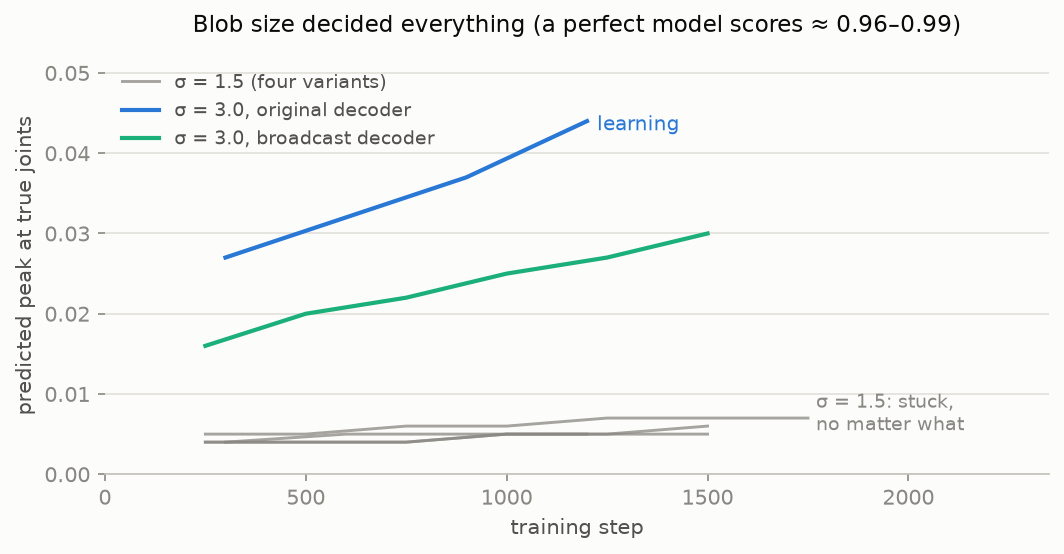
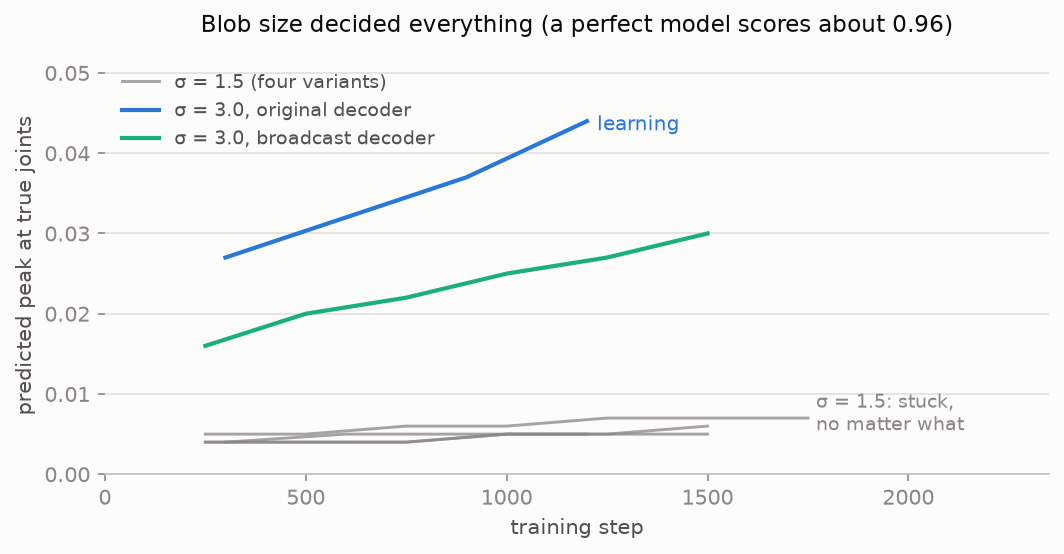
stage 4: training loop and pck evaluation, smoke-tested locally

Changed region(s): [[0.1861, 0.0307, 0.8994, 0.0614]]

diff --git a/piw/eval.py b/piw/eval.py
@@ -1,0 +1,97 @@
+"""Evaluation: decode joints from heatmaps and score PCK@0.2.
+
+PCK@0.2: a predicted joint counts as correct if it lands within 0.2 of the
+ground-truth bounding-box diagonal of the true joint. The box is computed from
+the confident GT joints, matching the paper's convention. Only joints the
+teacher was confident about (conf >= 0.2) are scored.
+
+COCO-18 has no separate foot keypoints, so joints are grouped head / arms
+(torso and arms) / legs, with ankles as the lowest joints in the leg group.
+"""
+
+import argparse
+import os
+
+import numpy as np
+import torch
+from torch.utils.data import DataLoader
+
+from piw.dataset import WiPoseDataset
+from piw.network import PersonInWiFi
+from piw.skeleton import JOINT_NAMES, NUM_JOINTS
+from piw.targets import CONF_THRESH
+
+JOINT_GROUPS = {
+    "head": [0, 14, 15, 16, 17],        # nose, eyes, ears
+    "arms": [1, 2, 3, 4, 5, 6, 7],      # neck, shoulders, elbows, wrists
+    "legs": [8, 9, 10, 11, 12, 13],     # hips, knees, ankles
+}
+
+
[email redacted]_grad()
+def decode_keypoints(jhm):
+    """(B, J+1, H, W) -> (B, J, 2) grid coordinates (x=col, y=row) via argmax."""
+    hm = jhm[:, :NUM_JOINTS]                       # drop background channel
+    B, J, H, W = hm.shape
+    idx = hm.reshape(B, J, -1).argmax(-1)
+    xs = (idx % W).float()
+    ys = (idx // W).float()
+    return torch.stack([xs, ys], dim=-1)
+
+
[email redacted]_grad()
+def pck_correct(pred_xy, gt, thresh=0.2):
+    """Per-joint correct/valid boolean masks, shape (B, J)."""
+    gx, gy, conf = gt[..., 0], gt[..., 1], gt[..., 2]
+    valid = conf >= CONF_THRESH
+    dist = torch.hypot(pred_xy[..., 0] - gx, pred_xy[..., 1] - gy)
+    correct = torch.zeros_like(valid)
+    for b in range(gt.shape[0]):
+        v = valid[b]
+        if int(v.sum()) < 2:
+            continue
+        xs, ys = gx[b][v], gy[b][v]
+        diag = torch.hypot(xs.max() - xs.min(), ys.max() - ys.min()).clamp_min(1e-6)
+        correct[b] = (dist[b] <= thresh * diag) & v
+    return correct, valid
+
+
[email redacted]_grad()
+def evaluate(model, root, split="Test", device="cpu", batch=32, workers=0,
+             max_batches=None):
+    dl = DataLoader(WiPoseDataset(root, split), batch_size=batch,
+                    num_workers=workers)
+    model.eval().to(device)
+    hit = np.zeros(NUM_JOINTS)
+    tot = np.zeros(NUM_JOINTS)
+    for i, bd in enumerate(dl):
+        jhm_p, _ = model(bd["csi"].to(device))
+        pred = decode_keypoints(jhm_p).cpu()
+        correct, valid = pck_correct(pred, bd["keypoints_grid"])
+        hit += correct.sum(0).numpy()
+        tot += valid.sum(0).numpy()
+        if max_batches and i + 1 >= max_batches:
+            break
+    per_joint = hit / np.clip(tot, 1, None)
+    overall = hit.sum() / max(tot.sum(), 1)
+    groups = {g: hit[ix].sum() / max(tot[ix].sum(), 1)
+              for g, ix in JOINT_GROUPS.items()}
+    return {"overall": float(overall), "groups": groups,
+            "per_joint": dict(zip(JOINT_NAMES, per_joint.tolist()))}
+
+
+if __name__ == "__main__":
+    ap = argparse.ArgumentParser()
+    ap.add_argument("checkpoint")
+    ap.add_argument("--root",
+                    default=os.path.join("data", "Wi-Pose_sample", "Wi-Pose"))
+    ap.add_argument("--split", default="Test")
+    ap.add_argument("--device",
+                    default="cuda" if torch.cuda.is_available() else "cpu")
+    a = ap.parse_args()
+    model = PersonInWiFi()
+    model.load_state_dict(torch.load(a.checkpoint, map_location=a.device))
+    res = evaluate(model, a.root, a.split, a.device)
+    print(f"PCK@0.2 overall: {res['overall']:.3f}")
+    for g, v in res["groups"].items():
+        print(f"  {g:>5}: {v:.3f}")

diff --git a/piw/train.py b/piw/train.py
@@ -1,0 +1,86 @@
+"""Training loop for the Person-in-WiFi pose network.
+
+Adam (betas 0.9/0.999), lr 1e-3, batch 32, 20 epochs, lr halved at epochs
+5/10/15 (the sibling paper WiSPPN's schedule). Loss is the masked
+Matthew-Weighted L2 over JHM and PAF. CPU is fine for a smoke test on the
+sample; the full 20-epoch run over 132k frames wants a GPU (see docs/PROGRESS.md).
+"""
+
+import argparse
+import os
+import time
+
+import torch
+from torch.utils.data import DataLoader
+
+from piw.dataset import WiPoseDataset
+from piw.losses import pose_loss
+from piw.network import PersonInWiFi
+
+
+def train(root, epochs=20, batch=32, lr=1e-3, device="cpu", workers=0,
+          max_steps=None, ckpt="checkpoints", log_every=20):
+    ds = WiPoseDataset(root, "Train")
+    dl = DataLoader(ds, batch_size=batch, shuffle=True, num_workers=workers,
+                    drop_last=True)
+    model = PersonInWiFi().to(device)
+    opt = torch.optim.Adam(model.parameters(), lr=lr, betas=(0.9, 0.999))
+    sched = torch.optim.lr_scheduler.MultiStepLR(opt, milestones=[5, 10, 15],
+                                                 gamma=0.5)
+    os.makedirs(ckpt, exist_ok=True)
+    print(f"train frames: {len(ds)}  batches/epoch: {len(dl)}  device: {device}",
+          flush=True)
+
+    model.train()
+    history = []
+    step = 0
+    stop = False
+    for epoch in range(1, epochs + 1):
+        running, n, t0 = 0.0, 0, time.time()
+        for bd in dl:
+            csi = bd["csi"].to(device)
+            jhm, paf = bd["jhm"].to(device), bd["paf"].to(device)
+            jm, pm = bd["jhm_mask"].to(device), bd["paf_mask"].to(device)
+
+            jhm_p, paf_p = model(csi)
+            loss, lj, lp = pose_loss(jhm_p, jhm, jm, paf_p, paf, pm)
+            opt.zero_grad()
+            loss.backward()
+            opt.step()
+
+            running += loss.item()
+            n += 1
+            step += 1
+            if step % log_every == 0:
+                print(f"  epoch {epoch} step {step}  loss {loss.item():.4f}  "
+                      f"(jhm {lj.item():.4f}  paf {lp.item():.4f})", flush=True)
+            if max_steps and step >= max_steps:
+                stop = True
+                break
+
+        sched.step()
+        avg = running / max(n, 1)
+        history.append(avg)
+        print(f"[epoch {epoch}] avg loss {avg:.4f}  ({time.time() - t0:.1f}s)",
+              flush=True)
+        torch.save(model.state_dict(), os.path.join(ckpt, f"epoch{epoch:02d}.pt"))
+        if stop:
+            break
+    return model, history
+
+
+if __name__ == "__main__":
+    ap = argparse.ArgumentParser()
+    ap.add_argument("--root",
+                    default=os.path.join("data", "Wi-Pose_sample", "Wi-Pose"))
+    ap.add_argument("--epochs", type=int, default=20)
+    ap.add_argument("--batch", type=int, default=32)
+    ap.add_argument("--lr", type=float, default=1e-3)
+    ap.add_argument("--device",
+                    default="cuda" if torch.cuda.is_available() else "cpu")
+    ap.add_argument("--workers", type=int, default=0)
+    ap.add_argument("--max-steps", type=int, default=None)
+    ap.add_argument("--ckpt", default="checkpoints")
+    a = ap.parse_args()
+    train(a.root, a.epochs, a.batch, a.lr, a.device, a.workers, a.max_steps,
+          a.ckpt)

diff --git a/tests/test_train_eval.py b/tests/test_train_eval.py
@@ -1,0 +1,44 @@
+import torch
+
+from piw.eval import decode_keypoints, pck_correct
+from piw.losses import masked_mw_loss, mw_loss
+from piw.skeleton import NUM_JOINTS
+from piw.targets import OUT_H, OUT_W
+
+
+def test_masked_loss_matches_mw_when_all_kept():
+    torch.manual_seed(0)
+    pred = torch.randn(2, 3, 4, 5)
+    target = torch.randn(2, 3, 4, 5)
+    mask = torch.ones(2, 3)
+    assert torch.isclose(masked_mw_loss(pred, target, mask), mw_loss(pred, target))
+
+
+def test_masked_loss_ignores_masked_channels():
+    torch.manual_seed(1)
+    pred = torch.randn(2, 3, 4, 5)
+    target = torch.randn(2, 3, 4, 5)
+    mask = torch.ones(2, 3)
+    mask[:, 1] = 0.0                              # drop channel 1
+    base = masked_mw_loss(pred, target, mask)
+    pred2 = pred.clone()
+    pred2[:, 1] += 100.0                          # garbage in the masked channel
+    assert torch.isclose(masked_mw_loss(pred2, target, mask), base)
+
+
+def test_decode_recovers_peak():
+    jhm = torch.zeros(1, NUM_JOINTS + 1, OUT_H, OUT_W)
+    jhm[0, 0, 20, 40] = 1.0                       # joint 0 peak at row 20, col 40
+    xy = decode_keypoints(jhm)
+    assert xy[0, 0, 0].item() == 40 and xy[0, 0, 1].item() == 20
+
+
+def test_pck_perfect_prediction():
+    torch.manual_seed(2)
+    gx = torch.rand(1, NUM_JOINTS) * OUT_W
+    gy = torch.rand(1, NUM_JOINTS) * OUT_H
+    conf = torch.ones(1, NUM_JOINTS)
+    gt = torch.stack([gx, gy, conf], dim=-1)
+    pred = gt[..., :2].clone()                    # exact predictions
+    correct, valid = pck_correct(pred, gt)
+    assert valid.all() and correct.all()

diff --git a/stage4_smoke.py b/stage4_smoke.py
@@ -1,0 +1,33 @@
+"""Stage 4 local smoke test: prove the training + evaluation pipeline runs end
+to end on the sample and the loss goes down. This is a plumbing check, not a
+real training run (the sample is tiny and the step budget is small), so the
+PCK number here is near chance and only confirms evaluation executes.
+
+Run: python stage4_smoke.py
+"""
+
+import os
+
+from piw.eval import evaluate
+from piw.train import train
+
+ROOT = os.path.join("data", "Wi-Pose_sample", "Wi-Pose")
+
+
+def main():
+    model, history = train(ROOT, epochs=3, batch=16, lr=1e-3, device="cpu",
+                           max_steps=90, log_every=15, ckpt="checkpoints")
+    print(f"\nloss per epoch: {[round(h, 4) for h in history]}")
+    down = history[-1] < history[0]
+    print(f"loss decreased over training: {down}")
+
+    res = evaluate(model, ROOT, "Test", device="cpu", batch=16, max_batches=5)
+    print(f"\nPCK@0.2 overall (barely trained, expect near chance): "
+          f"{res['overall']:.3f}")
+    print(f"by group: "
+          + ", ".join(f"{g} {v:.3f}" for g, v in res["groups"].items()))
+    print("\nsmoke test OK: pipeline trains and evaluates end to end")
+
+
+if __name__ == "__main__":
+    main()

diff --git a/piw/losses.py b/piw/losses.py
@@ -43,3 +43,31 @@ def mw_loss(pred, target, k=JHM_K, b=JHM_B):
     With k=0, b=1 this reduces exactly to plain MSE.
     """
     return (matthew_weight(target, k, b) * (pred - target) ** 2).mean()
+
+
+def masked_mw_loss(pred, target, channel_mask, k=JHM_K, b=JHM_B):
+    """Matthew-Weighted L2 that ignores masked-out channels.
+
+    pred, target : (B, C, H, W)
+    channel_mask : (B, C) with 1.0 for channels to keep, 0.0 to ignore
+                   (low-confidence joints, or limbs missing an endpoint).
+
+    Averages the weighted squared error over the kept channels' elements, so it
+    matches ``mw_loss`` when every channel is kept.
+    """
+    w = matthew_weight(target, k, b)
+    m = channel_mask[..., None, None]                 # (B, C, 1, 1)
+    num = (m * w * (pred - target) ** 2).sum()
+    den = m.expand_as(pred).sum().clamp_min(1.0)
+    return num / den
+
+
+def pose_loss(jhm_pred, jhm_tgt, jhm_mask, paf_pred, paf_tgt, paf_mask,
+              lam_jhm=1.0, lam_paf=1.0):
+    """Combined JHM + PAF training loss (paper head weights lambda = 1 each).
+
+    Returns (total, jhm_term, paf_term); the terms are detached for logging.
+    """
+    lj = masked_mw_loss(jhm_pred, jhm_tgt, jhm_mask, JHM_K, JHM_B)
+    lp = masked_mw_loss(paf_pred, paf_tgt, paf_mask, PAF_K, PAF_B)
+    return lam_jhm * lj + lam_paf * lp, lj.detach(), lp.detach()

diff --git a/figs/make_figs.py b/figs/make_figs.py
@@ -119,7 +119,7 @@ ax.text(1225, 0.0435, "learning", color=BLUE, fontsize=9.5, va="center")
 ax.set_xlim(0, 2350); ax.set_ylim(0, 0.052)
 ax.set_xlabel("training step")
 ax.set_ylabel("predicted peak at true joints")
-ax.set_title("Blob size decided everything (a perfect model scores ≈ 0.96–0.99)",
+ax.set_title("Blob size decided everything (a perfect model scores about 0.96)",
              fontsize=11, color=INK, pad=12)
 ax.legend(frameon=False, fontsize=9, loc="upper left", labelcolor=INK2)
 style(ax)

diff --git a/tests/test_losses.py b/tests/test_losses.py
@@ -25,7 +25,7 @@ def test_weights_strictly_positive_for_negative_targets():
     w = matthew_weight(target, k=PAF_K, b=PAF_B)
     assert (w > 0).all()
     # The paper's literal formula w = k*y + b*I(y) DOES go negative on this
-    # data — the gotcha the magnitude form exists to avoid.
+    # data, the gotcha the magnitude form exists to avoid.
     literal = PAF_K * target + PAF_B * torch.where(target >= 0, 1.0, -1.0)
     assert (literal < 0).any()
 

diff --git a/docs/PROGRESS.md b/docs/PROGRESS.md
@@ -5,7 +5,7 @@ machine? Read this file first, then `docs/spec.md` (the spec) and `README.md`
 (the outward-facing summary). Everything needed to continue without losing
 knowledge is here. Keep it updated as work proceeds.
 
-Last updated: 2026-07-10, after Stage 3.
+Last updated: 2026-07-10, Stage 4 training code built and smoke-tested locally.
 
 ## Where things stand
 
@@ -14,7 +14,7 @@ Last updated: 2026-07-10, after Stage 3.
 | 1 | Matthew Weight loss + toy validation vs plain L2 | done |
 | 2 | The paper's network, forward pass + shape/sanity tests | done |
 | 3 | Wi-Pose dataloader + JHM/PAF target rendering + visual check | done |
-| 4 | Full training on the official split, report PCK@0.2 | next (cloud GPU) |
+| 4 | Train loop + PCK eval built and smoke-tested; GPU run pending | in progress |
 | 5 | Synthetic CSI generator; later MM-Fi | not started |
 
 ## Environment
@@ -127,16 +127,32 @@ The research report (`docs/research_notes.md`) surveys both a software-only path
 - DT-Pose (`cseeyangchen/DT-Pose`) has a Wi-Pose loader worth a glance as a
   cross-check, but is not a dependency.
 
-## What comes next (Stage 4)
+### Stage 4: training and evaluation (in progress)
 
+Built and smoke-tested locally:
+- `piw/losses.py` gained `masked_mw_loss` (MW-weighted L2 that ignores
+  masked-out channels) and `pose_loss` (JHM + PAF combined, head weights 1).
+- `piw/train.py`: Adam(lr 1e-3, betas 0.9/0.999), batch 32, 20 epochs, lr halved
+  at epochs 5/10/15. Checkpoints per epoch to `checkpoints/` (git-ignored).
+- `piw/eval.py`: decode joints from JHM by per-channel argmax, then PCK@0.2
+  normalized by the GT bbox diagonal, overall and by group (head / arms / legs).
+  Note COCO-18 has no separate foot keypoints, so ankles sit in the leg group.
+- `stage4_smoke.py`: end-to-end check on the sample. Loss drops cleanly
+  (0.25 -> 0.008 in 90 steps) and evaluation runs; PCK is near chance (0.035),
+  which is expected after 90 steps and only confirms the plumbing.
+
+Honest observation from the smoke test: the loss falls fast partly because the
+easy win is fitting the background channel and empty joint channels. Real joint
+localization needs the full dataset and many epochs; watch that PCK actually
+climbs during the real run, not just that loss drops. CPU is ~6 s/batch, so the
+full run (about 83k batches) is GPU-only, confirming the plan.
+
+Remaining for Stage 4 (the GPU run):
 1. On Colab/Kaggle: extract the full `Wi-Pose.rar`, point `WiPoseDataset` at the
-   Train/Test root.
-2. Training loop: Adam(lr 1e-3, betas 0.9/0.999), batch 32, 20 epochs, optional
-   lr halving at epochs 5/10/15. Loss = MW-weighted L2 on JHM + PAF, multiplied
-   by the per-channel validity masks the dataset already returns.
-3. Before the real run, recompute source W,H from the full dataset maxima (the
-   480x640 estimate is from the sample) if you want exact scaling.
-4. Evaluate PCK@0.2 (error normalized by GT bbox diagonal) overall and per joint
-   group (torso/arms, legs, head, feet). Watch for the paper's ordering (head
-   and feet worst) as a sanity signal, and expect a large drop on any unseen
-   condition (known result, not a bug).
+   Train/Test root (a notebook will `gdown` the dataset from its Google Drive).
+2. Optionally recompute source W,H from the full dataset maxima (the 480x640
+   estimate is from the sample) for exact coordinate scaling.
+3. Run `piw/train.py` for 20 epochs, then `piw/eval.py` on the Test split.
+   Report PCK@0.2 overall and per group; watch for the paper's ordering (head
+   and feet worst) and expect a large drop on any unseen condition (known
+   result, not a bug).

diff --git a/README.md b/README.md
@@ -54,11 +54,14 @@ piw/network.py       the network: CSI tensor in, joint + limb maps out
 piw/skeleton.py      the 18 joints and 19 limbs, and the head channel counts
 piw/dataset.py       loads Wi-Pose .mat frames into network-ready tensors
 piw/targets.py       renders JHM and PAF supervision maps from keypoints
-tests/               unit tests for the loss, network, and target rendering
+piw/train.py         training loop (masked Matthew-Weighted loss, Adam)
+piw/eval.py          decodes joints from heatmaps and scores PCK@0.2
+tests/               unit tests for the loss, network, targets, and training
 mw_vs_l2_toy.py      stage-1 experiment: does the loss actually help?
 mw_vs_l2.png         its output figure
 stage2_network_check.py   prints the network's output shapes and size
 stage3_data_check.py      renders targets on real frames for a visual check
+stage4_smoke.py           trains a few steps to check the pipeline end to end
 figs/                figures for this README + the script that makes them
 docs/spec.md         the project spec: network, loss, data, evaluation
 docs/PROGRESS.md     living log of decisions, findings, and next steps